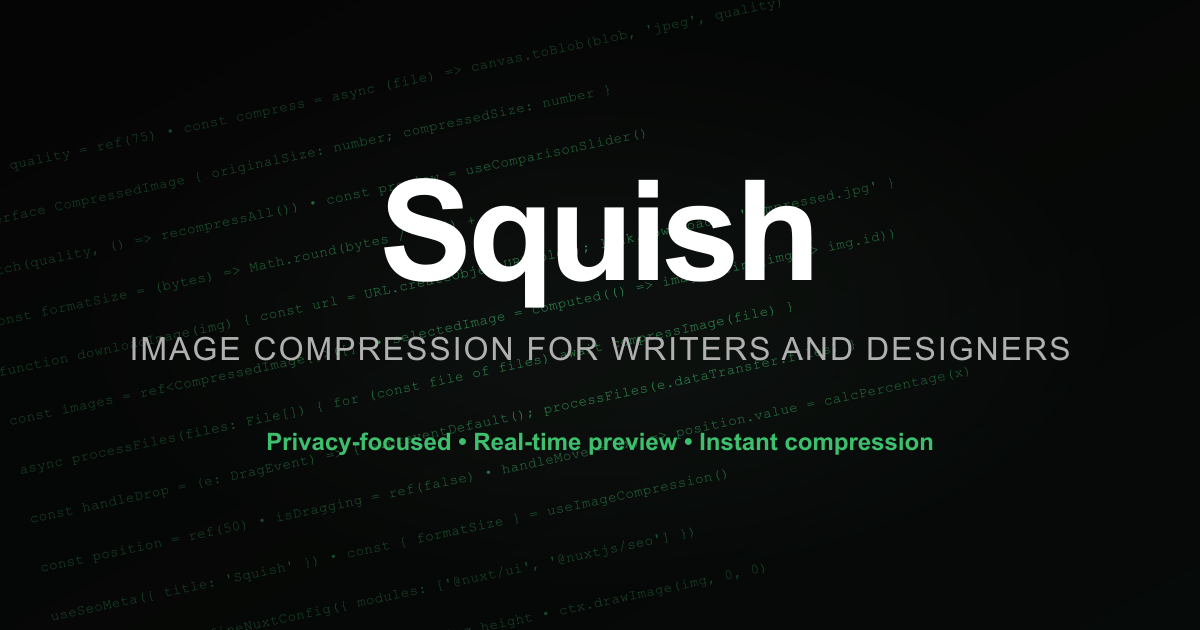
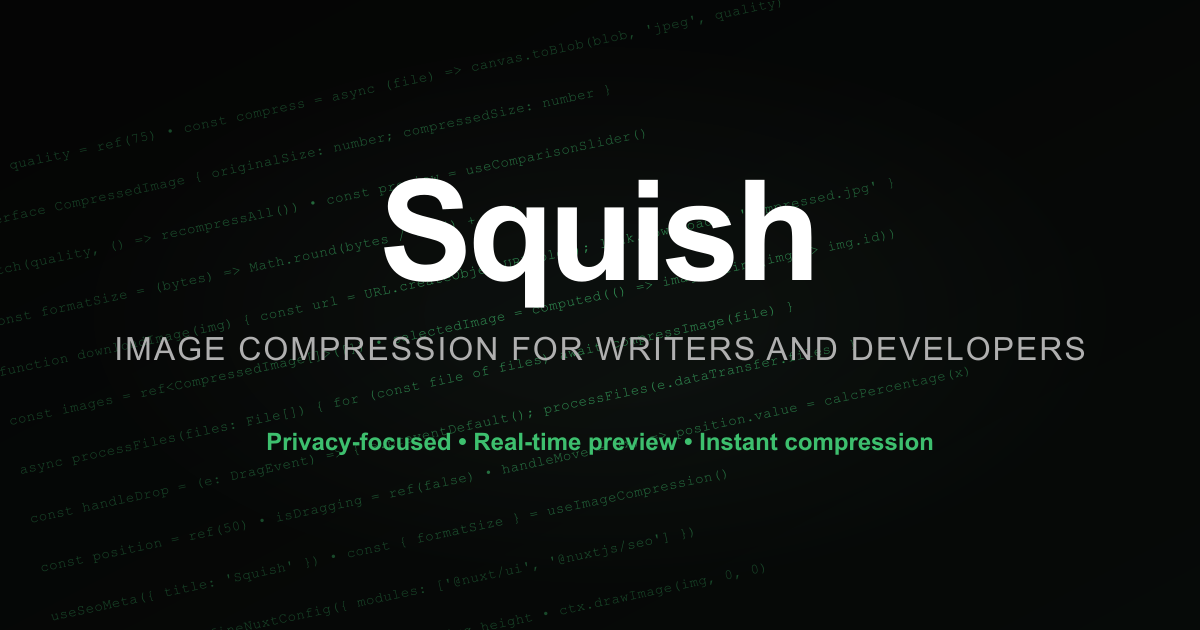
fix: change tagline from 'writers and designers' to 'writers and developers'
Update across all files: SEO meta, OG tags, schema.org, SVG, PNG,
header subtitle, and README.

Changed region(s): [[0.0925, 0.5127, 0.925, 0.573]]

diff --git a/nuxt.config.ts b/nuxt.config.ts
@@ -25,26 +25,26 @@ export default defineNuxtConfig({
   // App configuration
   app: {
     head: {
-      title: 'Squish - Image Compression for Writers & Designers',
+      title: 'Squish - Image Compression for Writers & Developers',
       meta: [
         { charset: 'utf-8' },
         { name: 'viewport', content: 'width=device-width, initial-scale=1' },
         {
           name: 'description',
           content:
-            'Privacy-focused image compression for writers and designers. Compress images instantly in your browser with real-time preview. No uploads required.',
+            'Privacy-focused image compression for writers and developers. Compress images instantly in your browser with real-time preview. No uploads required.',
         },
         { name: 'theme-color', content: '#0d0d0d' },
         // Open Graph
-        { property: 'og:title', content: 'Squish - Image Compression for Writers & Designers' },
-        { property: 'og:description', content: 'Privacy-focused image compression for writers and designers. Compress images instantly in your browser with real-time preview. No uploads required.' },
+        { property: 'og:title', content: 'Squish - Image Compression for Writers & Developers' },
+        { property: 'og:description', content: 'Privacy-focused image compression for writers and developers. Compress images instantly in your browser with real-time preview. No uploads required.' },
         { property: 'og:image', content: 'https://squish.icjia.app/og-image.png' },
         { property: 'og:url', content: 'https://squish.icjia.app/' },
         { property: 'og:type', content: 'website' },
         { property: 'og:site_name', content: 'Squish' },
         // Twitter
         { name: 'twitter:card', content: 'summary_large_image' },
-        { name: 'twitter:title', content: 'Squish - Image Compression for Writers & Designers' },
+        { name: 'twitter:title', content: 'Squish - Image Compression for Writers & Developers' },
         { name: 'twitter:description', content: 'Privacy-focused image compression. Compress images instantly in your browser with real-time preview. No uploads required.' },
         { name: 'twitter:image', content: 'https://squish.icjia.app/og-image.png' },
       ],
@@ -66,7 +66,7 @@ export default defineNuxtConfig({
   site: {
     url: 'https://squish.icjia.app/',
     name: 'Squish',
-    description: 'Privacy-focused image compression for writers and designers. Compress images instantly in your browser with real-time preview.',
+    description: 'Privacy-focused image compression for writers and developers. Compress images instantly in your browser with real-time preview.',
     defaultLocale: 'en',
     indexable: true,
   },

diff --git a/app/pages/index.vue b/app/pages/index.vue
@@ -5,20 +5,20 @@
 <script setup lang="ts">
 // Use Nuxt SEO module's useSeoMeta with proper configuration
 useSeoMeta({
-  title: 'Squish - Image Compression for Writers & Designers',
-  description: 'Privacy-focused image compression for writers and designers. Compress images instantly in your browser with real-time preview. No uploads required.',
-  ogTitle: 'Squish - Image Compression for Writers & Designers',
-  ogDescription: 'Privacy-focused image compression for writers and designers. Compress images instantly in your browser with real-time preview. No uploads required.',
+  title: 'Squish - Image Compression for Writers & Developers',
+  description: 'Privacy-focused image compression for writers and developers. Compress images instantly in your browser with real-time preview. No uploads required.',
+  ogTitle: 'Squish - Image Compression for Writers & Developers',
+  ogDescription: 'Privacy-focused image compression for writers and developers. Compress images instantly in your browser with real-time preview. No uploads required.',
   ogImage: 'https://squish.icjia.app/og-image.png',
-  ogImageAlt: 'Squish - Image compression for writers and designers',
+  ogImageAlt: 'Squish - Image compression for writers and developers',
   ogUrl: 'https://squish.icjia.app/',
   ogType: 'website',
   ogSiteName: 'Squish',
   twitterCard: 'summary_large_image',
-  twitterTitle: 'Squish - Image Compression for Writers & Designers',
+  twitterTitle: 'Squish - Image Compression for Writers & Developers',
   twitterDescription: 'Privacy-focused image compression. Compress images instantly in your browser with real-time preview. No uploads required.',
   twitterImage: 'https://squish.icjia.app/og-image.png',
-  twitterImageAlt: 'Squish - Image compression for writers and designers',
+  twitterImageAlt: 'Squish - Image compression for writers and developers',
 })
 
 // Define schema.org structured data
@@ -26,7 +26,7 @@ useSchemaOrg([
   {
     '@type': 'WebApplication',
     'name': 'Squish',
-    'description': 'Privacy-focused image compression for writers and designers',
+    'description': 'Privacy-focused image compression for writers and developers',
     'url': 'https://squish.icjia.app/',
     'applicationCategory': 'UtilityApplication',
     'operatingSystem': 'Any',

diff --git a/app/components/ImageCompressor.vue b/app/components/ImageCompressor.vue
@@ -6,7 +6,7 @@
           Squish
         </h1>
         <div class="flex items-center gap-6">
-          <span class="hidden text-sm tracking-wide text-muted-foreground sm:block">image compression for writers and designers</span>
+          <span class="hidden text-sm tracking-wide text-muted-foreground sm:block">image compression for writers and developers</span>
           <a
             href="https://github.com/ICJIA/icjia-squish-2026"
             target="_blank"

diff --git a/README.md b/README.md
@@ -7,9 +7,9 @@
 [![Nuxt UI](https://img.shields.io/badge/Nuxt_UI-3.0.x-00DC82)](https://ui.nuxt.com/)
 [![Nuxt SEO](https://img.shields.io/badge/Nuxt_SEO-4.0.x-00DC82)](https://nuxtseo.com/)
 
-> **Image compression for writers and designers**
+> **Image compression for writers and developers**
 
-A modern, privacy-focused image compression tool built with Nuxt 4. Squish helps writers and designers optimize their images with a beautiful, interactive preview comparison slider and real-time quality adjustments.
+A modern, privacy-focused image compression tool built with Nuxt 4. Squish helps writers and developers optimize their images with a beautiful, interactive preview comparison slider and real-time quality adjustments.
 
 ![Squish Open Graph Image](public/og-image.png)
 
@@ -264,4 +264,4 @@ ICJIA - Illinois Criminal Justice Information Authority
 
 ---
 
-**Made with ❤ for writers and designers who care about image quality and file size**
+**Made with ❤ for writers and developers who care about image quality and file size**
